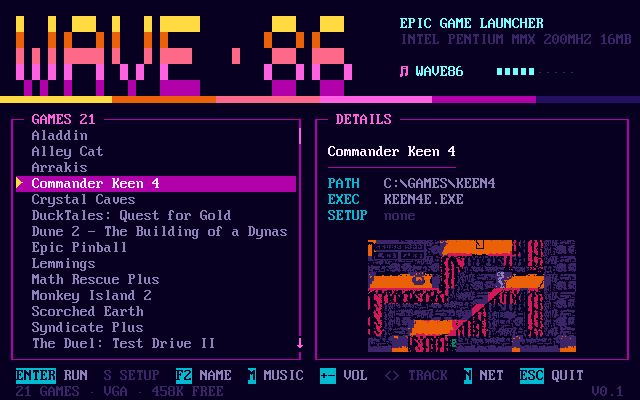
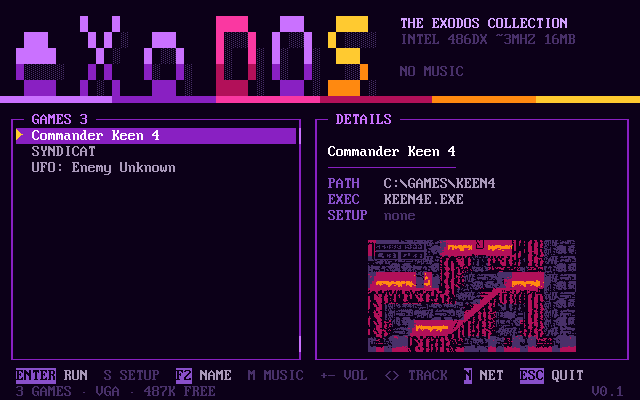
The eXoDOS look is the default; thumbnails per theme
theme=exodos is what you get without a theme= line; wave86 brings the
synthwave look back. Thumbnails are matched to a palette, so
makethumb.py takes --theme, THUMBS\<theme>\ holds a theme's pictures
and the launcher looks there before THUMBS\; the two pictures are
remade for the eXoDOS colours and the old ones kept under wave86. New
README screenshot.

diff --git a/tools/makethumb.py b/tools/makethumb.py
@@ -22,8 +22,19 @@ import sys, subprocess
 COLS, ROWS = 26, 7
 W, H = COLS * 8, ROWS * 16
 
-PAL6 = [(2,0,8),(9,4,24),(0,34,24),(0,46,52),(52,6,22),(44,0,42),(58,24,2),(36,32,46),
-        (15,9,26),(27,24,60),(18,60,40),(28,63,63),(63,26,34),(63,24,56),(63,54,16),(62,58,63)]
+# the launcher's palettes (src/theme.c), 6-bit VGA DAC values
+PALETTES = {
+    "wave86": [(2,0,8),(9,4,24),(0,34,24),(0,46,52),(52,6,22),(44,0,42),(58,24,2),(36,32,46),
+               (15,9,26),(27,24,60),(18,60,40),(28,63,63),(63,26,34),(63,24,56),(63,54,16),(62,58,63)],
+    "exodos": [(3,0,6),(16,4,30),(0,34,18),(34,20,50),(44,4,22),(34,8,48),(63,34,4),(42,38,46),
+               (18,12,26),(34,26,63),(24,60,30),(52,40,63),(62,14,40),(50,28,63),(63,50,12),(63,62,63)],
+}
+THEME = "exodos"                 # --theme wave86 for the other look's colours
+if "--theme" in sys.argv:
+    _i = sys.argv.index("--theme")
+    THEME = sys.argv[_i + 1]
+    del sys.argv[_i:_i + 2]
+PAL6 = PALETTES[THEME]
 PAL = [(r*255//63, g*255//63, b*255//63) for r, g, b in PAL6]
 
 # codes the UI never displays, available in both banks (0xAE/0xAF are the

diff --git a/src/theme.c b/src/theme.c
@@ -1,7 +1,7 @@
 /*
  * theme.c - the looks. A theme is the logo (5 rows of '#'), its row
  * colours and shadow, the tagline, the divider band and the 16 DAC
- * colours. theme= in WAVE86.INI picks one; wave86 is the default.
+ * colours. theme= in WAVE86.INI picks one; exodos is the default.
  */
 #include <string.h>
 #include "wave86.h"
@@ -36,12 +36,12 @@ static const Theme themes[] = {
         { 62, 14, 40 }, { 50, 28, 63 }, { 63, 50, 12 }, { 63, 62, 63 } } },
 };
 
-const Theme *theme = &themes[0];
+const Theme *theme = &themes[1];         /* exodos */
 
 void theme_select(const char *name)
 {
     int i;
-    theme = &themes[0];
+    theme = &themes[1];
     if (!name || !name[0])
         return;
     for (i = 0; i < (int)(sizeof(themes) / sizeof(themes[0])); i++)

diff --git a/src/ui.c b/src/ui.c
@@ -417,9 +417,15 @@ int ui_thumb(const Game *g)
 
     if (!vid_is_vga)
         return 0;
-    sprintf(path, "%s%sTHUMBS\\%s.THM", home_dir,
-            home_dir[strlen(home_dir) - 1] == '\\' ? "" : "\\", g->dir);
+    /* a picture made for this theme's colours first, then the plain one */
+    sprintf(path, "%s%sTHUMBS\\%s\\%s.THM", home_dir,
+            home_dir[strlen(home_dir) - 1] == '\\' ? "" : "\\", theme->name, g->dir);
     f = fopen(path, "rb");
+    if (!f) {
+        sprintf(path, "%s%sTHUMBS\\%s.THM", home_dir,
+                home_dir[strlen(home_dir) - 1] == '\\' ? "" : "\\", g->dir);
+        f = fopen(path, "rb");
+    }
     if (!f)
         return 0;
     if (fread(hdr, 1, 8, f) != 8 || memcmp(hdr, "W86T", 4) != 0 ||

diff --git a/README.md b/README.md
@@ -20,10 +20,10 @@ in dosbox-x before it goes onto the real machine.
   turns it on. The header shows a VU meter, which becomes the volume bar
   while you adjust it.
 - VGA gets a custom palette. EGA, CGA and mono cards get the standard
-  colours and the layout still holds up. `theme=exodos` in the INI swaps
-  the synthwave look for an eXoDOS one: a blue block-letter logo with a
-  drop shadow in the colours of the eXoDOS icon (violet, a red D, an
-  orange S) and matching DOS colours.
+  colours and the layout still holds up. The default look is the eXoDOS
+  one: a block-letter logo in the colours of the eXoDOS icon (violet, a
+  red D, an orange S) with a drop shadow and matching DOS colours;
+  `theme=wave86` in the INI brings back the synthwave look.
 - Tells you what it is running on. The header line comes from CPUID and
   a clock measurement (exact via RDTSC on Pentium-class CPUs, estimated
   from a timed loop and marked with `~` on 486s and older) plus the
@@ -72,7 +72,7 @@ Lives next to the EXE. Example:
 
     gamedir=C:\GAMES
     music=0          ; 1 = play at startup
-    theme=wave86     ; or exodos: blue block letters, classic DOS colours
+    theme=exodos     ; or wave86: the synthwave look
     ; adlib=1        ; force FM on (0 = off); normally auto-detected
     ; modrate=11025  ; MOD mixer rate; 0 turns MODs off
 
@@ -191,6 +191,11 @@ standard block characters borrow those, and busy pictures get
 near-identical patterns merged until they fit. VGA only.
 
     python3 tools/makethumb.py screenshot.png THUMBS/KEEN4.THM    # needs ffmpeg
+
+The cells are matched to a theme's colours, so a picture belongs to a
+theme: `THUMBS\KEEN4.THM` is for the default look, `THUMBS\wave86\` holds
+the ones made with `--theme wave86`, and the launcher looks in the
+folder named after its theme first.
 
 ## Games from eXoDOS or the Total DOS Collection over the network
 
